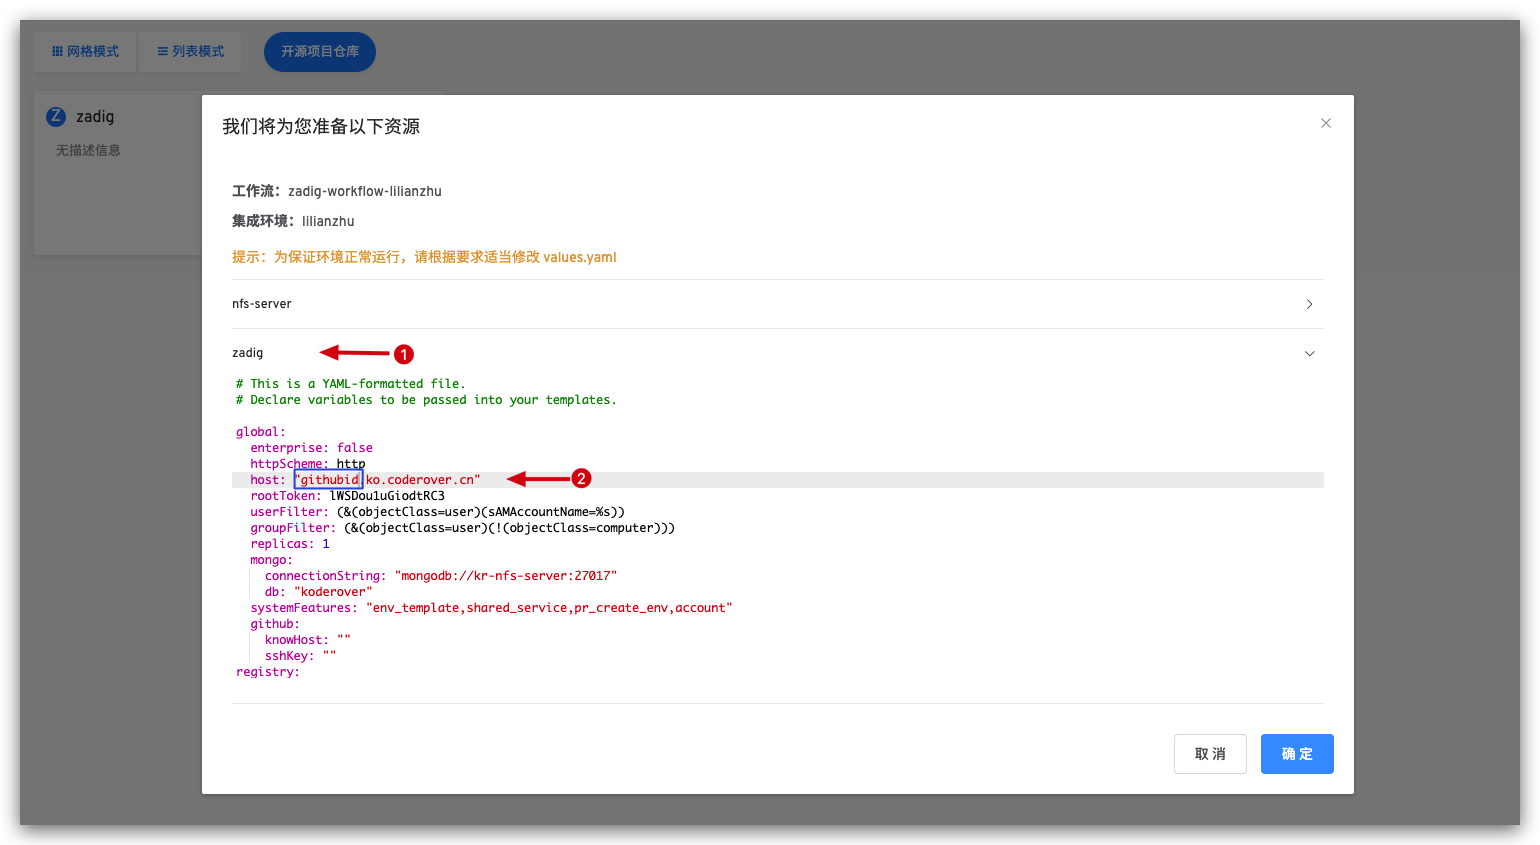
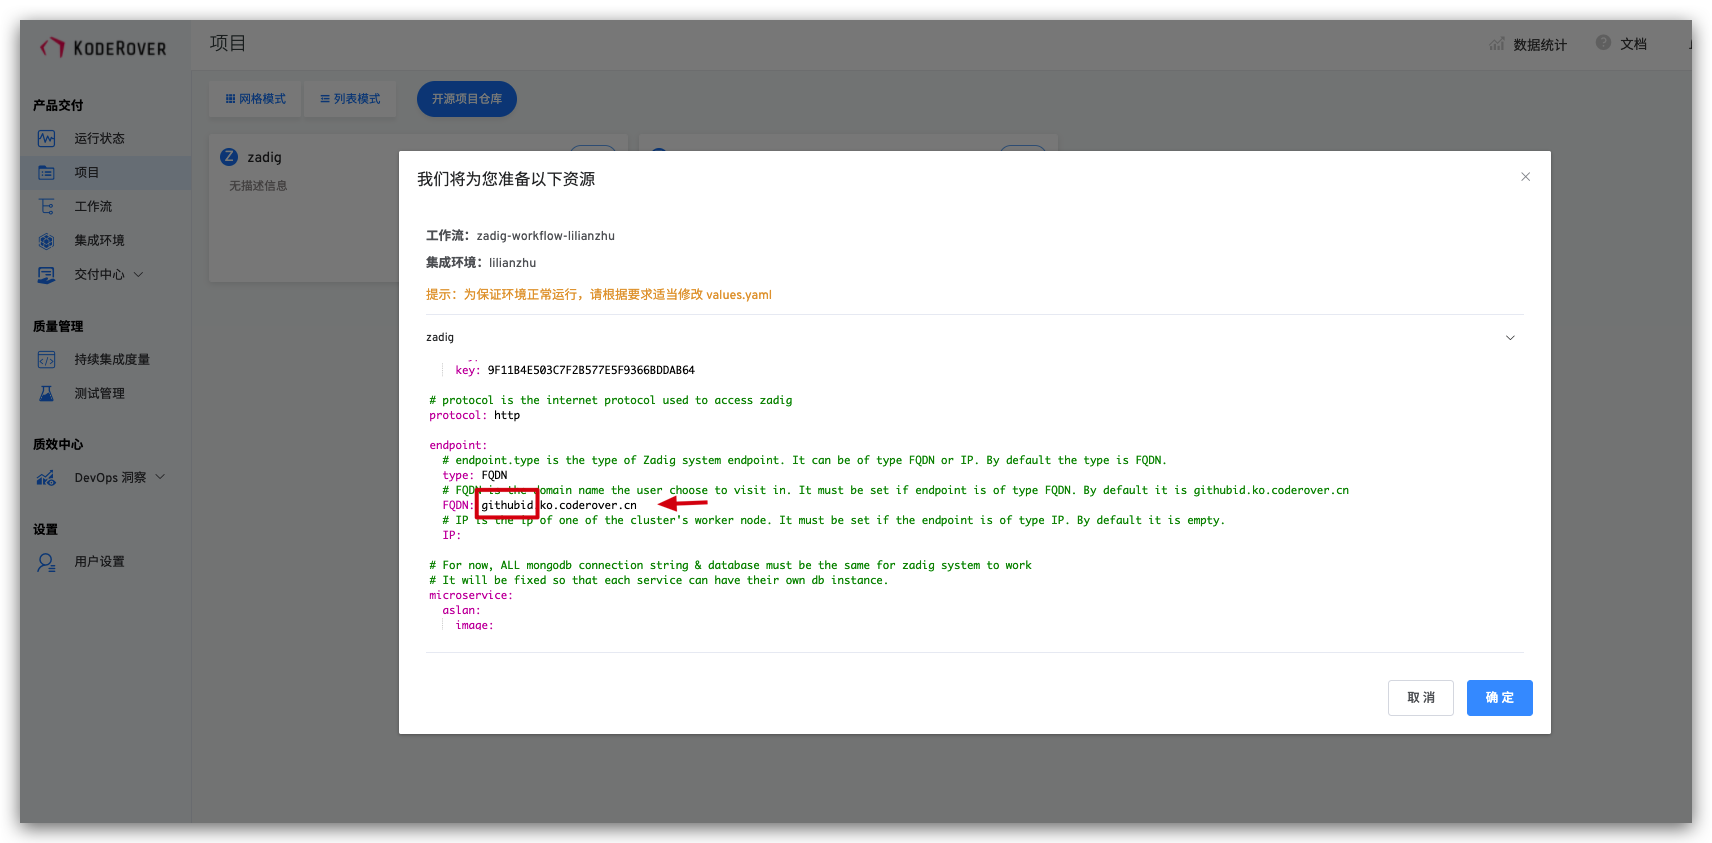
update contributor-workflow

diff --git a/community/dev/contributor-workflow.md b/community/dev/contributor-workflow.md
@@ -53,7 +53,7 @@ Zadig 为您提供云上测试环境 [https://os.koderover.com](https://os.koder
 
 ![Fork project](./fork-zadig-option.png)
 
-在弹出的窗口中，点击 zadig 选项，将其中的 global.host 中的 `githubid` 改成您的 GitHub ID，否则可能无法访问。
+在弹出的窗口中，点击 zadig 选项，将其中的 endpoint.FQDN 中的 `githubid` 改成您的 GitHub ID，否则可能无法访问。
 
 ![Update githubid](./fork-zadig-vars.png)
 
